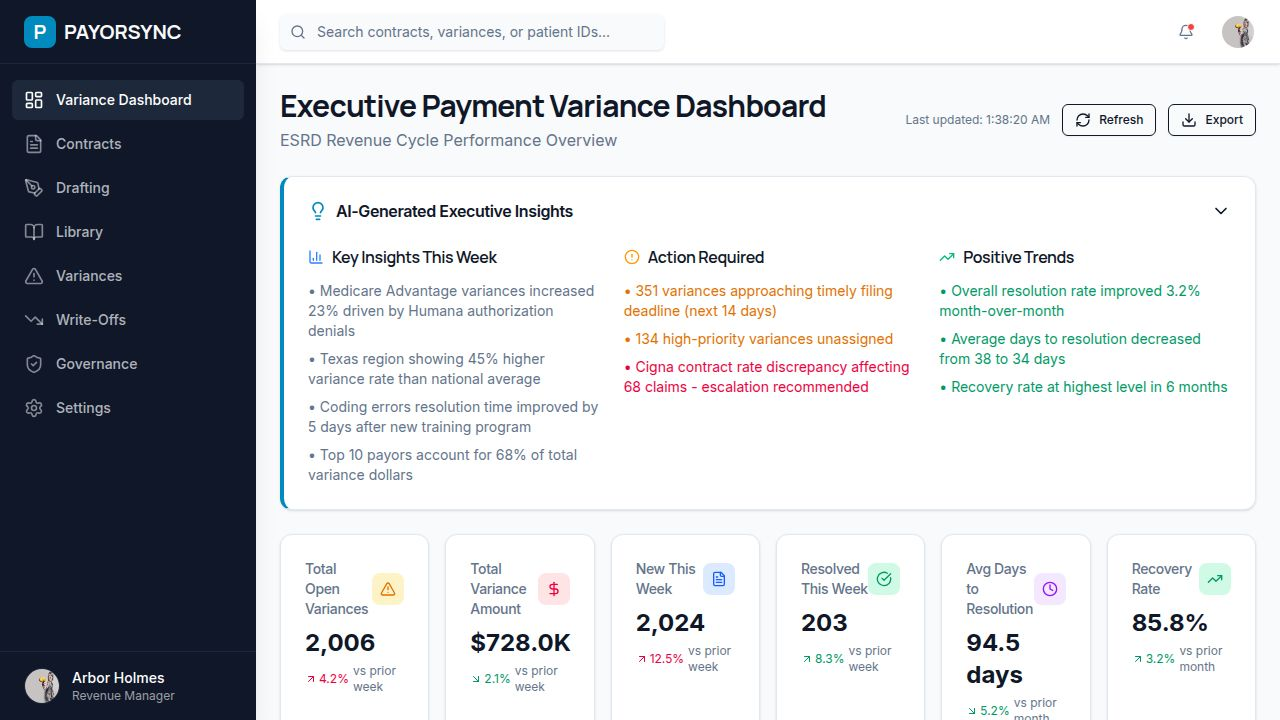
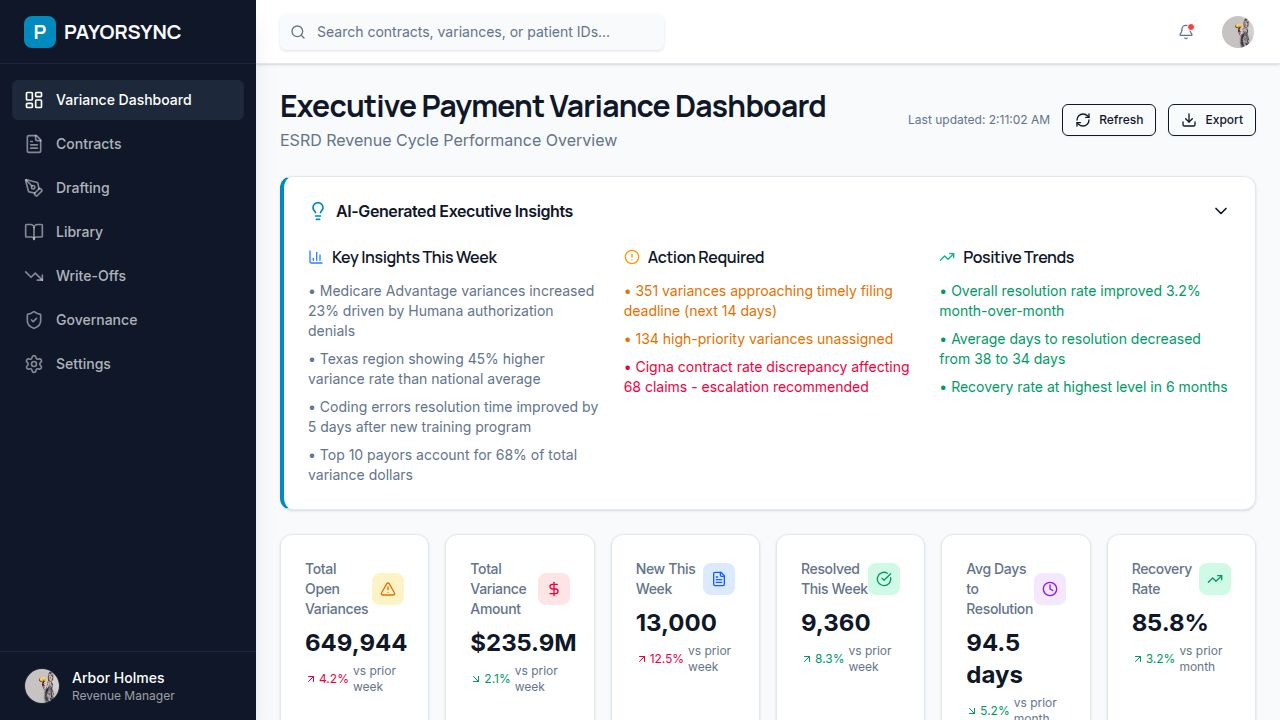
Update variance dashboard to reflect scaled weekly totals
Adjusts the dashboard and write-off analysis pages to scale displayed variance data, aiming for approximately 13,000 total variances per week by applying a scale factor of 324 to underlying data.

Replit-Commit-Author: Agent
Replit-Commit-Session-Id: 45a28a3a-9925-4679-9af8-e8f5f2364b00
Replit-Commit-Checkpoint-Type: full_checkpoint
Replit-Commit-Event-Id: 0ae23dd2-7b89-427b-a94b-0b7fb82b9dcd
Replit-Commit-Screenshot-Url: https://storage.googleapis.com/screenshot-production-us-central1/bbb255b3-12b0-4167-90ae-e4dc2cd2eb03/45a28a3a-9925-4679-9af8-e8f5f2364b00/m9gvafP
Replit-Helium-Checkpoint-Created: true

diff --git a/client/src/pages/write-offs.tsx b/client/src/pages/write-offs.tsx
@@ -32,70 +32,70 @@ const COLORS = ['#3b82f6', '#22c55e', '#f59e0b', '#ef4444', '#8b5cf6', '#06b6d4'
 const FUNNEL_COLORS = ['#3b82f6', '#60a5fa', '#93c5fd', '#22c55e', '#ef4444'];
 
 const STATIC_KPI = {
-  totalWriteOffAmount: 1850000,
-  writeOffCount: 312,
+  totalWriteOffAmount: 599400000,
+  writeOffCount: 101088,
   writeOffRate: 13.9,
   avgDaysToWriteOff: 127,
-  potentialRecovery: 425000,
-  recoverableCount: 89,
+  potentialRecovery: 137700000,
+  recoverableCount: 28836,
 };
 
 const STATIC_FUNNEL = [
-  { stage: 'Total Variances', count: 2250, amount: 18500000 },
-  { stage: 'Under Review', count: 875, amount: 7200000 },
-  { stage: 'Appealed', count: 425, amount: 3500000 },
-  { stage: 'Written Off', count: 312, amount: 1850000 },
+  { stage: 'Total Variances', count: 729000, amount: 5994000000 },
+  { stage: 'Under Review', count: 283500, amount: 2332800000 },
+  { stage: 'Appealed', count: 137700, amount: 1134000000 },
+  { stage: 'Written Off', count: 101088, amount: 599400000 },
 ];
 
 const STATIC_PREDICTIVE = {
-  atRiskCount: 156,
-  atRiskAmount: 1280000,
-  projectedWriteOffs: 62,
-  projectedAmount: 512000,
-  timelyFilingRisk: 43,
+  atRiskCount: 50544,
+  atRiskAmount: 414720000,
+  projectedWriteOffs: 20088,
+  projectedAmount: 165888000,
+  timelyFilingRisk: 13932,
 };
 
 const STATIC_ROOT_CAUSE = [
-  { category: 'Rate Discrepancy', count: 78, amount: 485000 },
-  { category: 'Coding Error', count: 65, amount: 378000 },
-  { category: 'Auth Denial', count: 52, amount: 312000 },
-  { category: 'Timely Filing', count: 48, amount: 295000 },
-  { category: 'Medical Necessity', count: 35, amount: 198000 },
-  { category: 'Coverage Terminated', count: 34, amount: 182000 },
+  { category: 'Rate Discrepancy', count: 25272, amount: 157140000 },
+  { category: 'Coding Error', count: 21060, amount: 122472000 },
+  { category: 'Auth Denial', count: 16848, amount: 101088000 },
+  { category: 'Timely Filing', count: 15552, amount: 95580000 },
+  { category: 'Medical Necessity', count: 11340, amount: 64152000 },
+  { category: 'Coverage Terminated', count: 11016, amount: 58968000 },
 ];
 
 const STATIC_AGING = [
-  { bucket: '0-30', count: 12, amount: 45000 },
-  { bucket: '31-60', count: 28, amount: 125000 },
-  { bucket: '61-90', count: 45, amount: 215000 },
-  { bucket: '91-120', count: 68, amount: 385000 },
-  { bucket: '121-180', count: 89, amount: 520000 },
-  { bucket: '181-365', count: 52, amount: 385000 },
-  { bucket: '365+', count: 18, amount: 175000 },
+  { bucket: '0-30', count: 3888, amount: 14580000 },
+  { bucket: '31-60', count: 9072, amount: 40500000 },
+  { bucket: '61-90', count: 14580, amount: 69660000 },
+  { bucket: '91-120', count: 22032, amount: 124740000 },
+  { bucket: '121-180', count: 28836, amount: 168480000 },
+  { bucket: '181-365', count: 16848, amount: 124740000 },
+  { bucket: '365+', count: 5832, amount: 56700000 },
 ];
 
 const STATIC_REASONS = [
-  { reason: 'Timely Filing Expired', count: 78, amount: 462000 },
-  { reason: 'Appeal Exhausted', count: 69, amount: 407000 },
-  { reason: 'Contractual Adjustment', count: 56, amount: 333000 },
-  { reason: 'Patient Responsibility', count: 37, amount: 222000 },
-  { reason: 'Coordination of Benefits', count: 31, amount: 185000 },
-  { reason: 'Provider Error', count: 25, amount: 148000 },
-  { reason: 'Payer Insolvency', count: 10, amount: 56000 },
-  { reason: 'Small Balance', count: 6, amount: 37000 },
+  { reason: 'Timely Filing Expired', count: 25272, amount: 149688000 },
+  { reason: 'Appeal Exhausted', count: 22356, amount: 131868000 },
+  { reason: 'Contractual Adjustment', count: 18144, amount: 107892000 },
+  { reason: 'Patient Responsibility', count: 11988, amount: 71928000 },
+  { reason: 'Coordination of Benefits', count: 10044, amount: 59940000 },
+  { reason: 'Provider Error', count: 8100, amount: 47952000 },
+  { reason: 'Payer Insolvency', count: 3240, amount: 18144000 },
+  { reason: 'Small Balance', count: 1944, amount: 11988000 },
 ];
 
 const STATIC_PAYORS = [
-  { payorName: 'Aetna', count: 48, amount: 285000, avgDays: 132 },
-  { payorName: 'UnitedHealth', count: 42, amount: 248000, avgDays: 118 },
-  { payorName: 'Cigna', count: 38, amount: 225000, avgDays: 142 },
-  { payorName: 'Humana', count: 35, amount: 198000, avgDays: 125 },
-  { payorName: 'Blue Cross', count: 32, amount: 188000, avgDays: 135 },
-  { payorName: 'Medicare', count: 28, amount: 165000, avgDays: 108 },
-  { payorName: 'Anthem', count: 25, amount: 148000, avgDays: 145 },
-  { payorName: 'Kaiser', count: 22, amount: 132000, avgDays: 122 },
-  { payorName: 'Molina', count: 18, amount: 108000, avgDays: 138 },
-  { payorName: 'Centene', count: 14, amount: 85000, avgDays: 128 },
+  { payorName: 'Aetna', count: 15552, amount: 92340000, avgDays: 132 },
+  { payorName: 'UnitedHealth', count: 13608, amount: 80352000, avgDays: 118 },
+  { payorName: 'Cigna', count: 12312, amount: 72900000, avgDays: 142 },
+  { payorName: 'Humana', count: 11340, amount: 64152000, avgDays: 125 },
+  { payorName: 'Blue Cross', count: 10368, amount: 60912000, avgDays: 135 },
+  { payorName: 'Medicare', count: 9072, amount: 53460000, avgDays: 108 },
+  { payorName: 'Anthem', count: 8100, amount: 47952000, avgDays: 145 },
+  { payorName: 'Kaiser', count: 7128, amount: 42768000, avgDays: 122 },
+  { payorName: 'Molina', count: 5832, amount: 34992000, avgDays: 138 },
+  { payorName: 'Centene', count: 4536, amount: 27540000, avgDays: 128 },
 ];
 
 export default function WriteOffs() {

diff --git a/client/src/pages/dashboard.tsx b/client/src/pages/dashboard.tsx
@@ -139,6 +139,8 @@ export default function Dashboard() {
   const [detailView, setDetailView] = useState<'payor' | 'state' | 'rootCause' | null>(null);
   const [detailItem, setDetailItem] = useState<string | null>(null);
   
+  const SCALE_FACTOR = 324;
+  const WEEKLY_VARIANCES = 13000;
   const allData = useMemo(() => generateVarianceData(2250), []);
   
   const filteredData = useMemo(() => {
@@ -157,12 +159,57 @@ export default function Dashboard() {
     });
   }, [allData, selectedPayorType, selectedState, selectedStatus, selectedRootCause, searchQuery]);
   
-  const kpis = useMemo(() => calculateKPIs(filteredData), [filteredData]);
-  const payorTypeData = useMemo(() => groupByPayorType(filteredData), [filteredData]);
-  const stateData = useMemo(() => groupByState(filteredData), [filteredData]);
-  const rootCauseData = useMemo(() => groupByRootCause(filteredData), [filteredData]);
-  const agingData = useMemo(() => groupByAgingBucket(filteredData), [filteredData]);
-  const trendData = useMemo(() => getTrendData(allData), [allData]);
+  const rawKpis = useMemo(() => calculateKPIs(filteredData), [filteredData]);
+  const kpis = useMemo(() => ({
+    totalOpenVariances: Math.round(rawKpis.totalOpenVariances * SCALE_FACTOR),
+    totalVarianceAmount: Math.round(rawKpis.totalVarianceAmount * SCALE_FACTOR),
+    newThisWeek: WEEKLY_VARIANCES,
+    resolvedThisWeek: Math.round(WEEKLY_VARIANCES * 0.72),
+    avgDaysToResolution: rawKpis.avgDaysToResolution,
+    recoveryRate: rawKpis.recoveryRate,
+  }), [rawKpis, SCALE_FACTOR, WEEKLY_VARIANCES]);
+  
+  const rawPayorTypeData = useMemo(() => groupByPayorType(filteredData), [filteredData]);
+  const payorTypeData = useMemo(() => rawPayorTypeData.map(p => ({
+    ...p,
+    count: Math.round(p.count * SCALE_FACTOR),
+    amount: Math.round(p.amount * SCALE_FACTOR),
+  })), [rawPayorTypeData, SCALE_FACTOR]);
+  
+  const rawStateData = useMemo(() => groupByState(filteredData), [filteredData]);
+  const stateData = useMemo(() => rawStateData.map(s => ({
+    ...s,
+    count: Math.round(s.count * SCALE_FACTOR),
+    amount: Math.round(s.amount * SCALE_FACTOR),
+  })), [rawStateData, SCALE_FACTOR]);
+  
+  const rawRootCauseData = useMemo(() => groupByRootCause(filteredData), [filteredData]);
+  const rootCauseData = useMemo(() => rawRootCauseData.map(rc => ({
+    ...rc,
+    count: Math.round(rc.count * SCALE_FACTOR),
+    amount: Math.round(rc.amount * SCALE_FACTOR),
+    subcategories: rc.subcategories.map(sub => ({
+      ...sub,
+      count: Math.round(sub.count * SCALE_FACTOR),
+      amount: Math.round(sub.amount * SCALE_FACTOR),
+    })),
+  })), [rawRootCauseData, SCALE_FACTOR]);
+  
+  const rawAgingData = useMemo(() => groupByAgingBucket(filteredData), [filteredData]);
+  const agingData = useMemo(() => rawAgingData.map(a => ({
+    ...a,
+    count: Math.round(a.count * SCALE_FACTOR),
+    amount: Math.round(a.amount * SCALE_FACTOR),
+  })), [rawAgingData, SCALE_FACTOR]);
+  
+  const rawTrendData = useMemo(() => getTrendData(allData), [allData]);
+  const trendData = useMemo(() => rawTrendData.map(t => ({
+    ...t,
+    new: Math.round(t.new * SCALE_FACTOR),
+    resolved: Math.round(t.resolved * SCALE_FACTOR),
+    amount: Math.round(t.amount * SCALE_FACTOR),
+    net: Math.round(t.net * SCALE_FACTOR),
+  })), [rawTrendData, SCALE_FACTOR]);
   
   const paginatedData = useMemo(() => {
     const start = (currentPage - 1) * pageSize;
